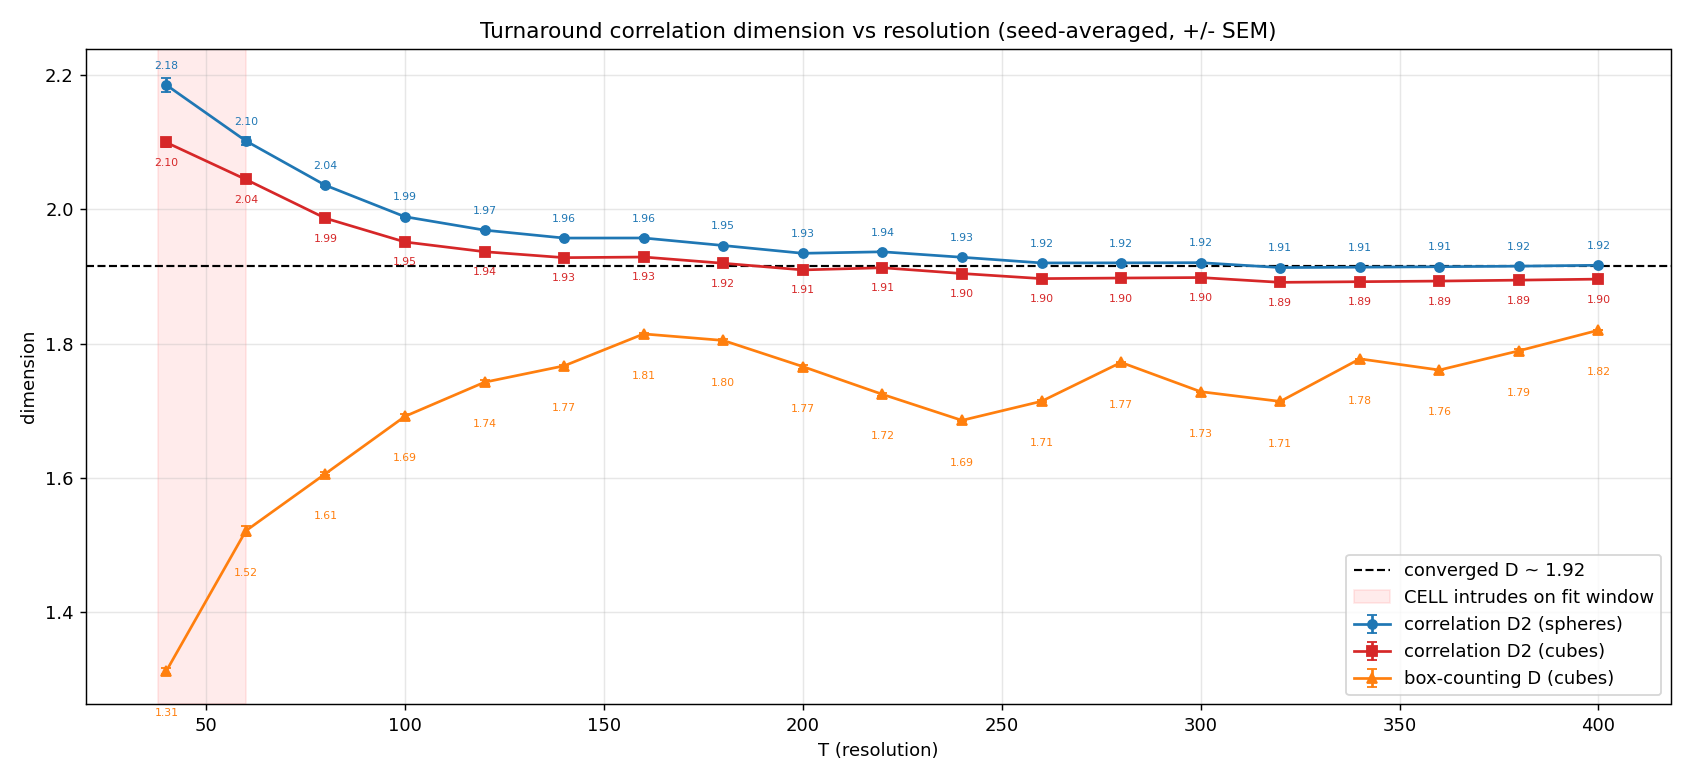
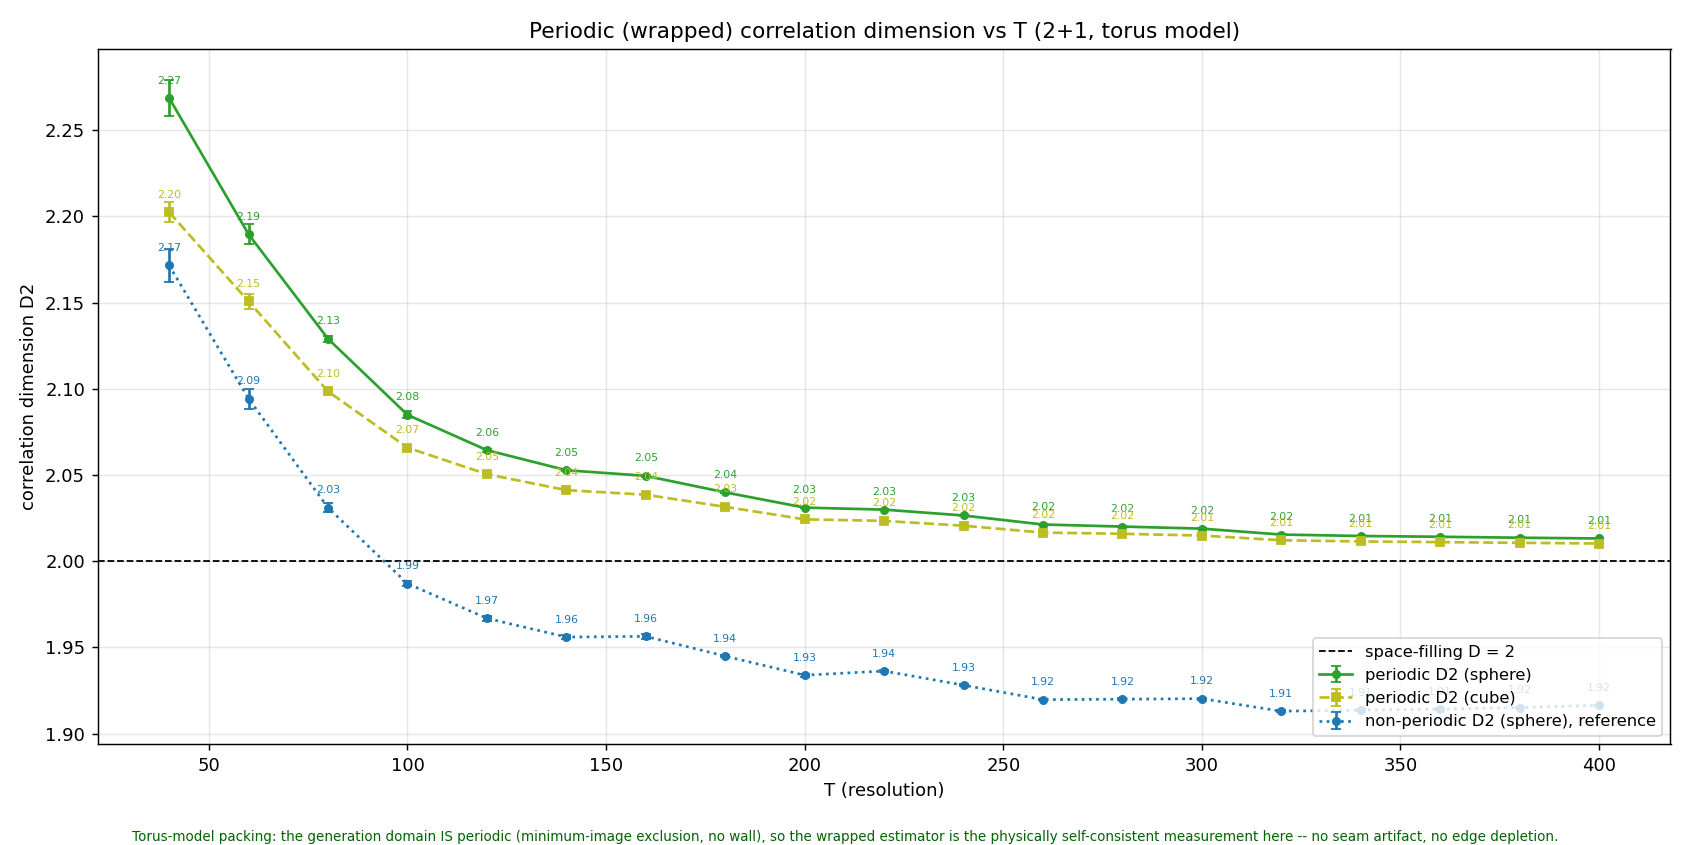
Lab notes: 3+1 phase results; correct the D2 entry to the wrapped estimator
3+1 entry: count exponent 2.273/2.331 (vs 2.282/2.328 no-phase), jam
prefactor +6.9% at T=200, wrapped D2 3.019/3.010 -- homogeneity
survives phases. The earlier D2 paragraph mislabelled the braidlab
report's non-periodic numbers (1.91x) as wrapped; entry now presents
them as the boundary artifact and adds the true wrapped measurement
(2.03 both variants), with figures regenerated from
analyze_periodic_corrdim.

diff --git a/lab-notes/2026-07-05/index.html b/lab-notes/2026-07-05/index.html
@@ -79,10 +79,11 @@
     </article>
 
     <article class="entry" id="corrdim-variant-mixing">
-      <h2>Corrdim was averaging variants together; corrected D2 is phase-blind</h2>
+      <h2>Corrdim was averaging variants together; the wrapped D2 is space-filling and phase-blind</h2>
       <p class="meta">
-        Bug fix in the report path &middot; code
-        <a href="https://github.com/universe-analysis/universe-generator/commit/3b39dd2"><code>3b39dd2</code></a>
+        Bug fix in the report path + wrapped estimator generalised &middot; code
+        <a href="https://github.com/universe-analysis/universe-generator/commit/3b39dd2"><code>3b39dd2</code></a>,
+        <a href="https://github.com/universe-analysis/universe-generator/commit/bad6d88"><code>bad6d88</code></a>
       </p>
       <p>
         Caught because three different datasets returned <em>identical</em>
@@ -99,31 +100,97 @@
         landed sibling variants beside them.
       </p>
       <p>
-        With per-variant filtering, the wrapped (minimum-image) correlation
-        dimension of the turnaround slice, seed-averaged over the high-T tail:
-        <strong>1.915</strong> with phases, <strong>1.916</strong> without
-        (1e-6), and the 07-02 torus 1e-7 dataset reads <strong>1.913</strong>
-        under the same tooling &mdash; identical within error. Whatever the
-        phases rearrange along the loop, the equal-time slice geometry at the
-        turnaround does not see it.
+        A second catch followed: the <code>braidlab corrdim</code> report uses
+        the <em>non-periodic</em> estimator (unwrapped positions, open-boundary
+        distances). Its per-variant numbers &mdash; 1.915 with phases, 1.916
+        without, 1.913 for the 07-02 1e-7 set &mdash; are phase-blind but they
+        are the boundary artifact, the 2+1 sibling of the ~2.89 the 07-02 notes
+        flagged in 3+1. The physical measurement is the wrapped (minimum-image)
+        estimator, so <code>analyze_periodic_corrdim</code> grew
+        <code>--dim 2|3</code> and a variant <code>--suffix</code> filter.
+        Wrapped, seed-averaged over T &ge; 100: <strong>D2 = 2.032 (sphere) /
+        2.025 (cube)</strong> with phases, <strong>2.033 / 2.026</strong>
+        without &mdash; the 2+1 matter slices are space-filling, the
+        probe-shape gap collapses, and the 07-02 exact-homogeneity result
+        extends to 2+1 and survives the phase degrees of freedom. The
+        non-periodic reference on the same clouds reads 1.93 &mdash; the
+        artifact, reproduced on demand.
       </p>
       <figure class="plot">
         <img src="periodic_corrdim_2d_phase.png"
-             alt="Wrapped correlation dimension vs T for the 2+1 torus+phase dataset: sphere and cube estimators converge to ~1.92 by T=400." />
+             alt="Wrapped correlation dimension vs T for the 2+1 torus+phase dataset: periodic sphere and cube estimators sit on the space-filling D=2 line while the non-periodic reference reads ~1.93." />
         <figcaption>
-          Wrapped-estimator convergence, 2+1 torus with phases (8 seeds per T).
-          Sphere and cube probes converge together; the box-count column stays
-          noisy as usual.
+          Wrapped correlation dimension vs T, 2+1 torus with phases (8 seeds
+          per T): periodic sphere/cube on the D = 2 line, non-periodic
+          reference below &mdash; the boundary artifact made visible.
         </figcaption>
       </figure>
       <figure class="plot">
         <img src="periodic_corrdim_2d_nophase.png"
-             alt="Wrapped correlation dimension vs T for the 2+1 torus no-phase 1e-6 dataset: indistinguishable from the phase version, converging to ~1.92." />
+             alt="Wrapped correlation dimension vs T for the 2+1 torus no-phase 1e-6 dataset: indistinguishable from the phase version, on the D=2 line." />
         <figcaption>
           Same measurement, no-phase baseline at the same cutoff &mdash;
           indistinguishable from the phased dataset point by point.
         </figcaption>
       </figure>
+    </article>
+
+    <article class="entry" id="phase-3d-results">
+      <h2>3+1 with phases: exponent and homogeneity unchanged, jam +7%</h2>
+      <p class="meta">
+        Campaign <code>torus3d_phase_e6</code> (95 jobs, deep-thought +
+        mother + kitt) &middot; code
+        <a href="https://github.com/universe-analysis/universe-generator/commit/88dd0f2"><code>88dd0f2</code></a>,
+        <a href="https://github.com/universe-analysis/universe-generator/commit/bad6d88"><code>bad6d88</code></a>
+      </p>
+      <p>
+        The 3+1 phase campaign landed (same grid as <code>torus3d_e6</code>:
+        T = 20&ndash;200 step 10, 5 seeds, 1e-6). The 2+1 picture repeats in
+        every particular:
+      </p>
+      <ul>
+        <li>Count exponent: <strong>2.273 &plusmn; 0.003</strong> full ladder /
+            <strong>2.331 &plusmn; 0.003</strong> for T &ge; 100, vs
+            2.282 / 2.328 without phases &mdash; unchanged. Notably the phased
+            ladder is <em>cleaner</em> (local-slope scatter 0.066 vs 0.114),
+            and its high-T half sits right at the 2.33 the 07-02 caveat
+            suspected was the converged no-phase value.</li>
+        <li>Jam prefactor: &lang;N_sat&rang; = 158,840 vs 148,606 at T = 200
+            (<strong>+6.9%</strong>) &mdash; the same more-packing-freedom
+            effect as 2+1, about twice the size.</li>
+        <li>Wrapped D2 (T &ge; 100 mean): <strong>3.019 (sphere) / 3.010
+            (cube)</strong> with phases vs 3.021 / 3.011 without; non-periodic
+            reference ~2.89 on both. Exact homogeneity survives the phases.</li>
+      </ul>
+      <figure class="plot">
+        <img src="jam_scaling_phase3d.png"
+             alt="Jam count vs T with the 3+1 torus+phase ladder added: it runs parallel to the no-phase torus ladder at slope ~2.28-2.33, offset a few percent above it." />
+        <figcaption>
+          All ladders with the 3+1 torus+phase dataset (pink) added: parallel
+          to the no-phase torus (red), a constant few-percent offset above it.
+          Lower panel: the phased local slope is the flattest 3+1 trace on the
+          chart.
+        </figcaption>
+      </figure>
+      <figure class="plot">
+        <img src="periodic_corrdim_3d_phase.png"
+             alt="Wrapped correlation dimension vs T for the 3+1 torus+phase dataset: periodic sphere and cube on the space-filling D=3 line, non-periodic reference at ~2.89." />
+        <figcaption>
+          Wrapped correlation dimension vs T, 3+1 torus with phases: periodic
+          sphere/cube descend onto the space-filling D = 3 line with the
+          probe-shape gap collapsed, exactly as the no-phase torus did on
+          07-02.
+        </figcaption>
+      </figure>
+      <p>
+        Takeaway, both dimensions now in: the phase degrees of freedom change
+        <em>how much</em> packs (+2.8% in 2+1, +6.9% in 3+1 at the top of the
+        ladder) but not <em>how packing scales</em> (count exponents unchanged)
+        and not the slice geometry (wrapped D2 stays space-filling). The
+        structure of the model still lives entirely in the packing-number
+        exponent &mdash; and the phased 3+1 ladder&rsquo;s flatness firms up
+        2.33 as the converged 3+1 torus exponent.
+      </p>
     </article>
 
     <!-- NEW ENTRIES APPEND ABOVE THIS LINE -->

diff --git a/lab-notes/index.html b/lab-notes/index.html
@@ -22,12 +22,14 @@
     <a class="day" href="2026-07-05/">
       <div class="date">2026-07-05</div>
       <div class="summary">
-        The phase schema (engine <code>--phase</code>) reaches the fleet: in
-        2+1 the count exponent is unchanged (1.396 vs 1.382 at matched 1e-6
-        cutoff) and the wrapped turnaround D2 is phase-blind (1.915 vs 1.916);
-        phases only nudge the jam prefactor (+2.8% at T = 400). Plus a corrdim
-        report fix: variant dumps sharing a directory were being averaged
-        together. 3+1 phase campaign still running.
+        The phase schema (engine <code>--phase</code>) reaches the fleet, both
+        dimensions: count exponents unchanged (2+1: 1.396 vs 1.382; 3+1: 2.273
+        vs 2.282 at matched 1e-6 cutoff), wrapped D2 stays space-filling with
+        phases (2.03 in 2+1, 3.02 in 3+1), and phases only raise the jam
+        prefactor (+2.8% / +6.9%). Plus two corrdim report catches: variant
+        dumps sharing a directory were averaged together, and the CLI report
+        is the non-periodic estimator (its 1.92 / 2.89 are the boundary
+        artifact).
       </div>
     </a>
 